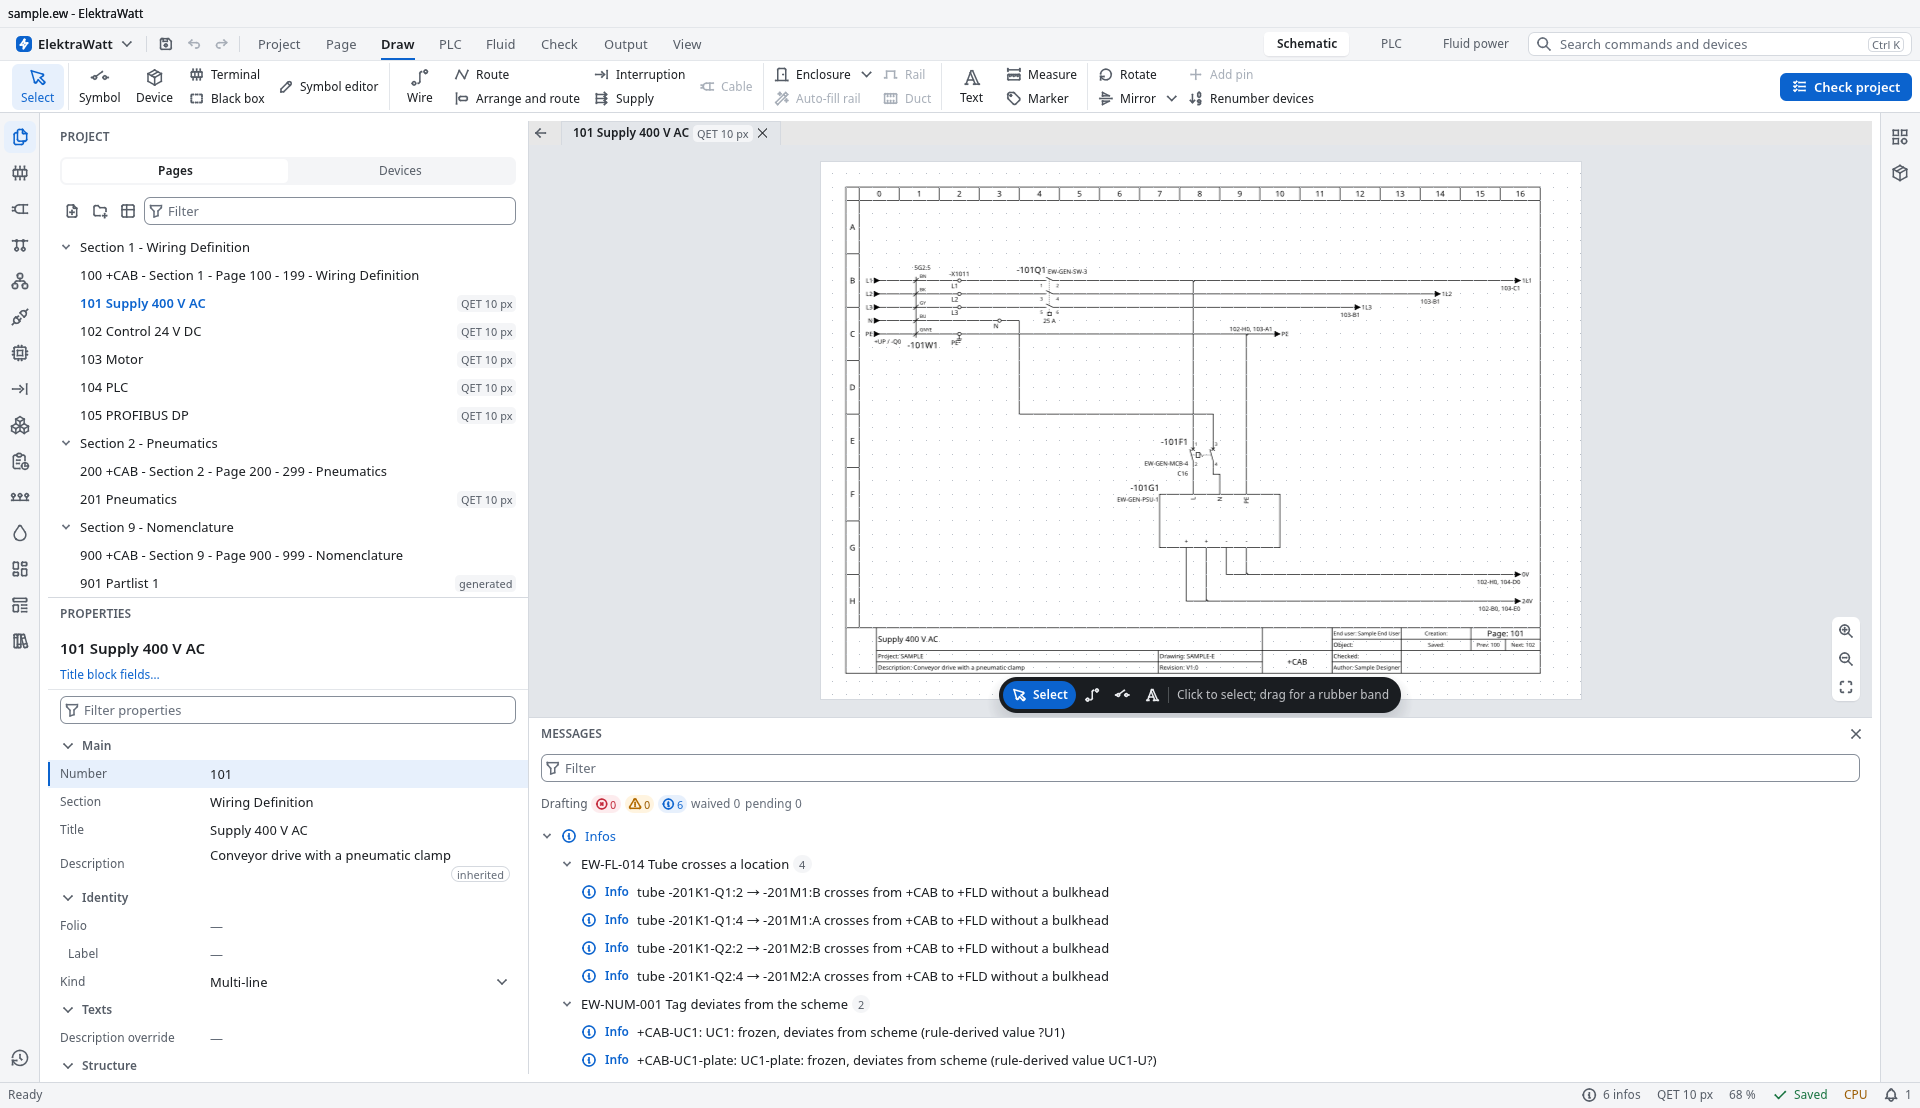
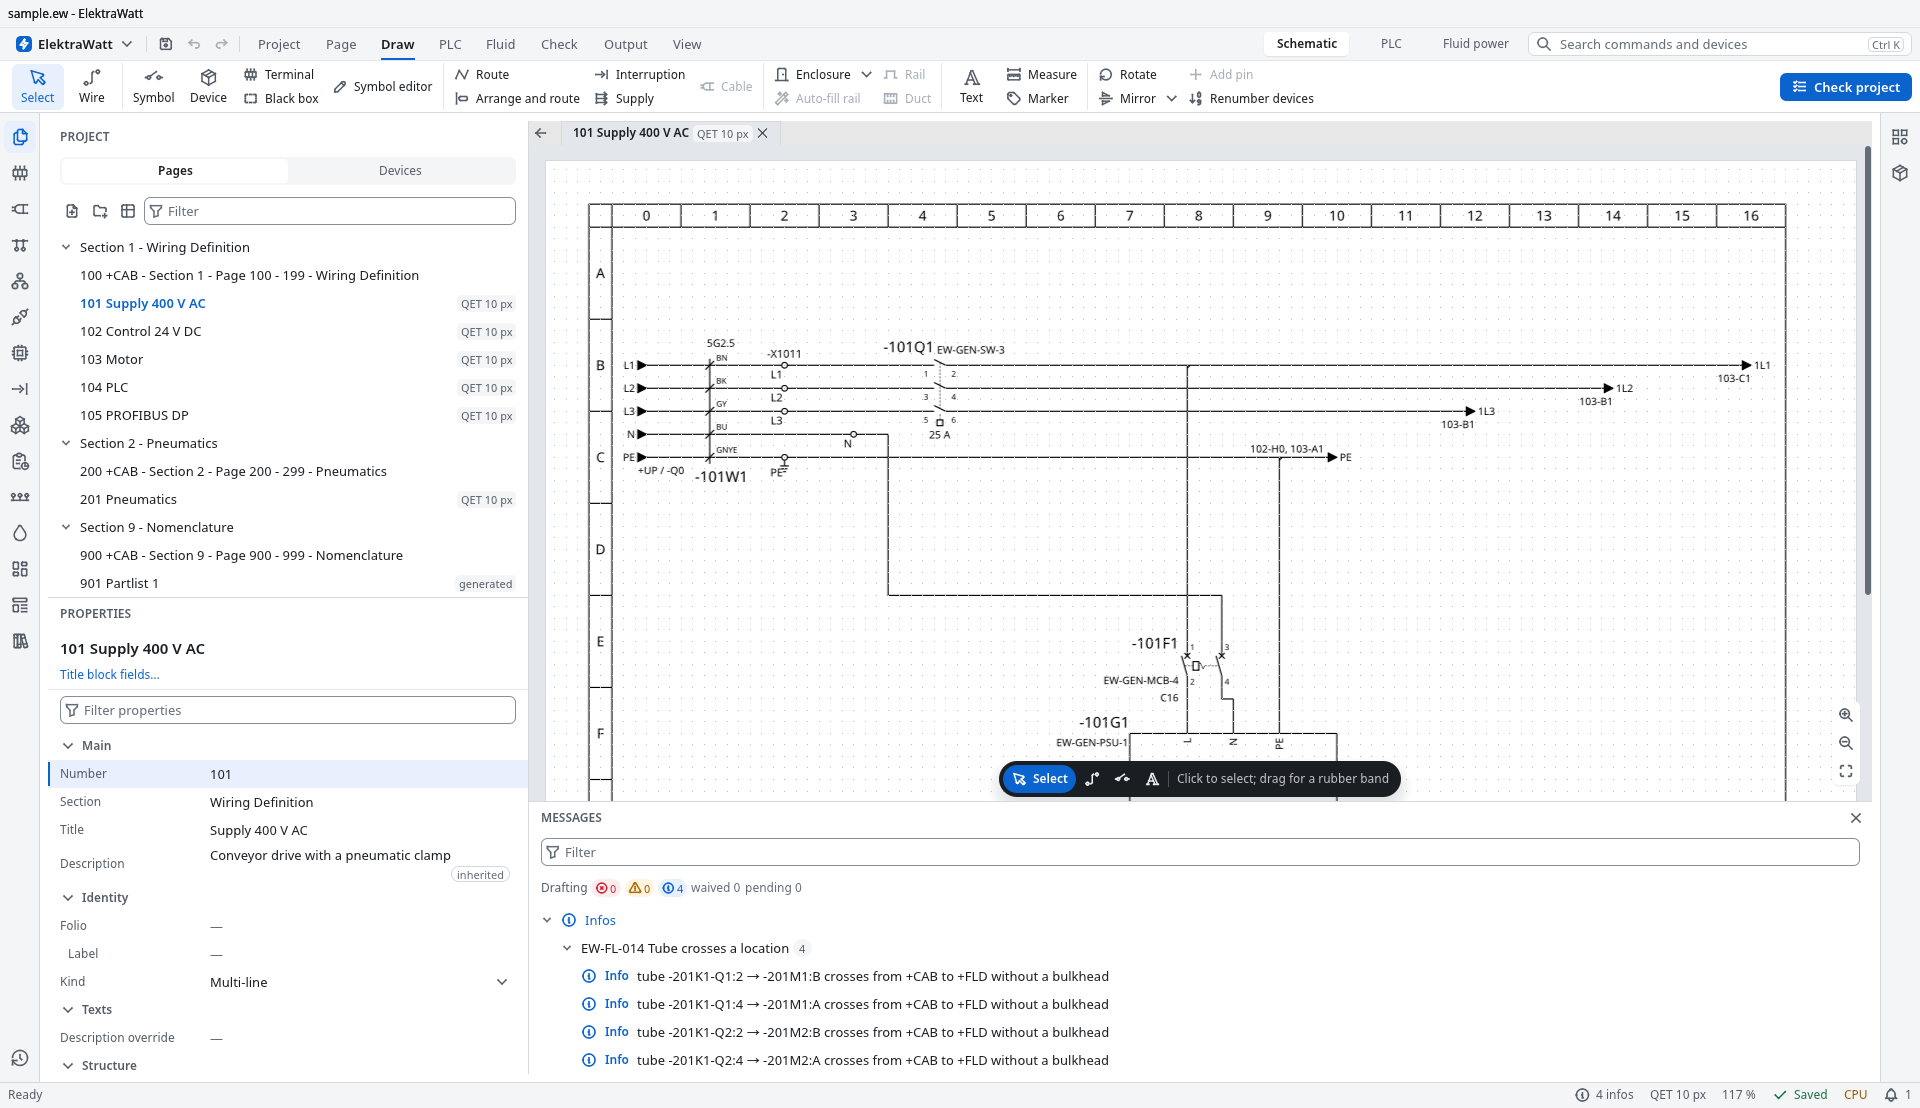
fix(readme): 0.3.0 is the latest release; the check and dark-theme pictures shot again
The README's Download and Status sections named 0.2.0 as the latest release
and ROADMAP had M3 running and no M3.5: they now name 0.3.0 (2026-11-20) and
its notes, and M3.5 running towards 0.3.5. The first picture and the dark
theme's showed "6 infos", two of them EW-NUM-001 on the enclosure that
FT-1899 removed; both are painted again from the headless window at
1920 x 1080 on a copy of the sample (`--visual --frames`): the check on 101
with the Messages pane (four EW-FL-014 infos on the tubes into the field),
and 201 in the dark theme. The first caption says what the check finds.

diff --git a/README.md b/README.md
@@ -9,24 +9,24 @@ cables, PLC and fluid power, panel layout, reports, manufacturing outputs and ch
 that works with Git.
 
 ![The ElektraWatt window with the sample project open: the page list and the properties on the left, the 400 V supply
-page on the canvas, and the findings of a project check in the Messages panel below it: no error, no warning, six
-infos](docs/images/screenshot-schematic-checks.png)
+page on the canvas, and the findings of a project check in the Messages panel below it: no error, no warning, four
+infos that the pneumatic tubes run from the cabinet into the field without a bulkhead](docs/images/screenshot-schematic-checks.png)
 
 ## Download
 
-**[ElektraWatt 0.2.0](https://github.com/Ironkode787/ElektraWatt/releases/tag/v0.2.0)**, released on 2026-11-13, is
+**[ElektraWatt 0.3.0](https://github.com/Ironkode787/ElektraWatt/releases/tag/v0.3.0)**, released on 2026-11-20, is
 an early alpha for Windows 10 and 11 and for Linux on x86-64:
 
 | File | What it is |
 |---|---|
-| `ElektraWatt-0.2.0-x64-user-setup.exe` | The per-user setup for Windows: the window, the `ew` command-line tool, the starter content, the sample project and the user guide; no administrator rights needed |
-| `ElektraWatt-0.2.0-x86_64.AppImage` | The same for Linux (glibc 2.35 or newer, as on Ubuntu 22.04 and Debian 12) |
-| `ew-0.2.0-…` (`.zip`, `.tar.gz`) | The command-line tool `ew` alone |
+| `ElektraWatt-0.3.0-x64-user-setup.exe` | The per-user setup for Windows: the window, the `ew` command-line tool, the starter content, the sample project and the user guide; no administrator rights needed |
+| `ElektraWatt-0.3.0-x86_64.AppImage` | The same for Linux (glibc 2.35 or newer, as on Ubuntu 22.04 and Debian 12) |
+| `ew-0.3.0-…` (`.zip`, `.tar.gz`) | The command-line tool `ew` alone |
 | `SHA256SUMS` | The checksum of every other file |
 
 Nothing is signed yet, so Windows may warn before it runs the setup: check a download against `SHA256SUMS` first, as
 the guide's [Install ElektraWatt](docs/book/src/how-to/install.md) page shows. ElektraWatt makes no network
-connection of its own ([PRIVACY.md](PRIVACY.md)). The [release notes](docs/release-notes/0.2.0.md) list what changed
+connection of its own ([PRIVACY.md](PRIVACY.md)). The [release notes](docs/release-notes/0.3.0.md) list what changed
 and what is known not to work yet.
 
 ## Screenshots
@@ -45,12 +45,13 @@ is older and shows release 0.2.0. The application drew them itself, with its off
 
 ## Status
 
-**0.2.0 was released on 2026-11-13.** It is the fix release that followed 0.1.0 (2026-11-08): it fixes what stopped
-the work when 0.1.0 was used by hand, and the owner's hands-on test of its first candidate asked for shorter ways to
-things that were there but hard to find, so it also brings the right-click menu as the quick way to what fits the
-thing under the pointer, forms for cables and terminals, and the other flows below. It is still an early alpha: the
-[release notes](docs/release-notes/0.2.0.md), section 7, list the known limitations. The [roadmap](ROADMAP.md) lists
-the milestones and [docs/plan](docs/plan/README.md) the open work.
+**0.3.0 was released on 2026-11-20.** It brings the automation breadth of milestone M3: the PLC workspace with
+stations, racks, modules and addresses, bus networks, your own PLC and bus parts, the exchange with AutomationML, TIA
+Portal tag tables and PLCopen XML, fluid power with valve terminals and tubes, DXF, DWG and PDF imports and underlays,
+EPLAN parts and reports, and Arrange and route. It is still an early alpha: the
+[release notes](docs/release-notes/0.3.0.md), section 7, list the known limitations. 0.3.5 is in work: a hygiene
+milestone and a round of fixes ([docs/plan/m3.5.md](docs/plan/m3.5.md)). The [roadmap](ROADMAP.md) lists the
+milestones and [docs/plan](docs/plan/README.md) the open work.
 
 What works today:
 

diff --git a/ROADMAP.md b/ROADMAP.md
@@ -19,6 +19,7 @@ that is running and the open work are in [docs/plan/](docs/plan/README.md).
 | M2.5 | Maintenance | No features: the code base and the documents cleaned up, the tests reviewed, and the over-design removed (the symbol editor moved into 0.1.0) |
 | M2.5-Fix | A properly working program: release 0.2.0 | Every open fix, and every fix the maintenance turns up, until the program works as a whole in hands-on use |
 | M3 | Automation breadth | New development only: PLC, bus and fluid models; exchange with TIA Portal and PLCopen tools; EDZ, DXF and DWG import; automation workspaces |
+| M3.5 | Hygiene: release 0.3.5 | The repository made cheaper to work in (the reference project retired for a sample the program draws, the tests weeded, files split), then a round of fixes from the first production job and the owner's tests |
 | M4 | Manufacturing and 2D/3D panel | The STEP worker, the 3D view, collision, routing and wire lengths; wire records, ferrules, labels and machine profiles; the `.ewpp` package |
 | M5 | Fluid power | Pneumatics designed, not only drawn: makers' parts by kind, cylinders with their sensors wired or plugged into an input, the actuator list, valve terminals sized when placed, filled from a table and drawn over several pages, a cylinder driven from a valve position in one step, air consumption and force, and tubes with their numbers, sizes, lengths, fittings, cut list and labels |
 | M6 | 1.0 feature complete (beta) | Every 1.0 feature merged; beta releases for the pilot and early adopters |
@@ -32,13 +33,14 @@ that is running and the open work are in [docs/plan/](docs/plan/README.md).
 | M0 to M2 | Closed: 0.1.0 was released on 2026-11-08 for Windows and Linux, unsigned and with no network code |
 | M2.5 | Closed on 2026-11-11: the maintenance step ([plan and exit record](docs/plan/m2.5.md)) |
 | M2.5-Fix | Closed: 0.2.0 was released on 2026-11-13, the fixes that make the program work well in the hand ([plan and log](docs/plan/m2.5-fix.md)) |
-| M3 | Running since 2026-11-13: automation breadth, release 0.3.0 ([plan](docs/plan/m3.md)) |
+| M3 | Closed: 0.3.0 was released on 2026-11-20, automation breadth ([plan and log](docs/plan/m3.md)) |
+| M3.5 | Running since 2026-11-20: hygiene and a fix round, release 0.3.5 ([plan](docs/plan/m3.5.md)) |
 | M4 to M7, 1.x | Not started |
 
 What works today, in short: the desktop window opens, edits and checks a project, with navigators, table mode, a
 history, the 2D panel layout and printing; the `ew` command-line tool imports QElectroTech projects, checks, exports
-PDF/A-2b, SVG and tables (with the Excel round trip), prints and upgrades a project of an older format. 0.2.0 is an
-early alpha that fixes what hands-on use of 0.1.0 found, with the right-click menu and forms for cables and terminals. The
+PDF/A-2b, SVG and tables (with the Excel round trip), prints and upgrades a project of an older format. 0.3.0 is an
+early alpha that adds the PLC workspace, bus networks, fluid power, drawing and EPLAN imports, and Arrange and route. The
 [README](README.md#status) lists what is built.
 
 ## What is not on the roadmap
